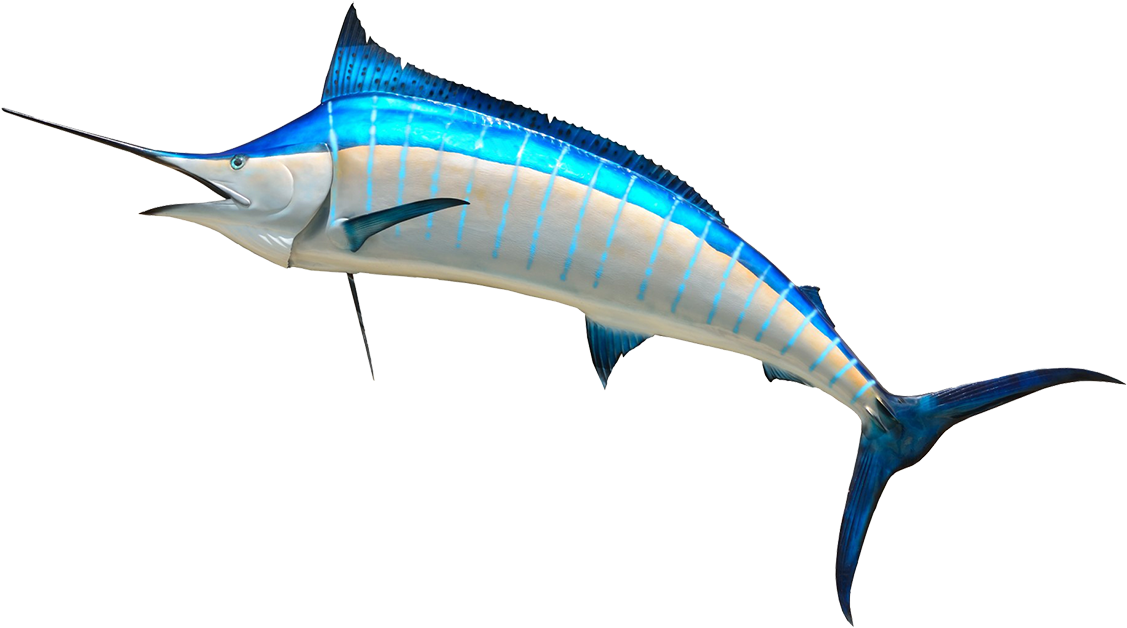
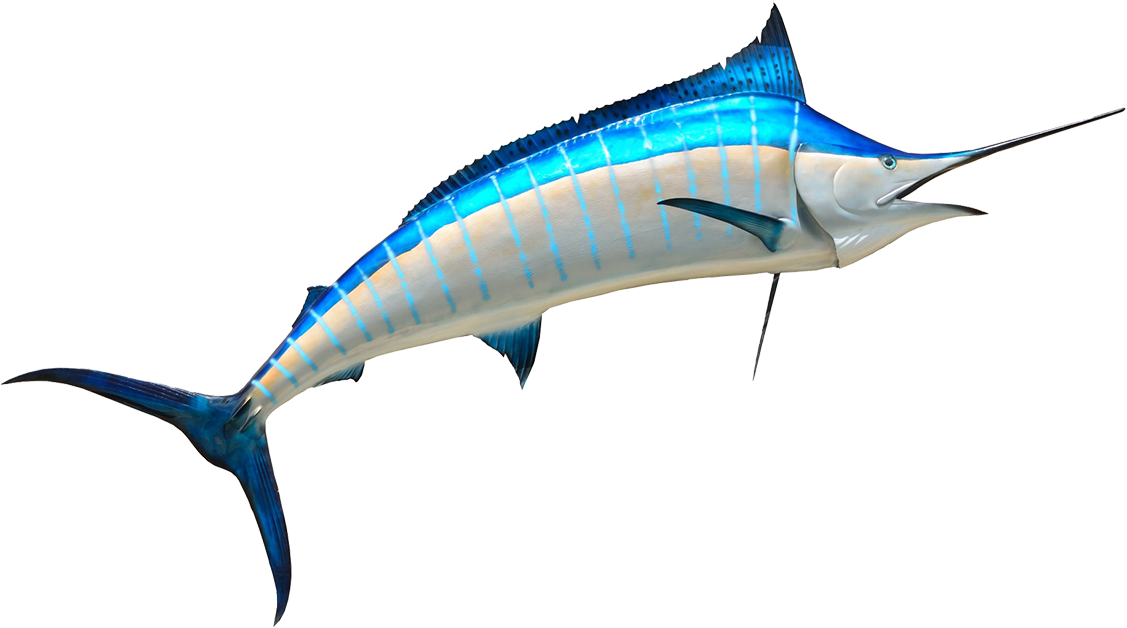
Add background; make fish switch directions

diff --git a/public/scripts/entities/bite_fish.js b/public/scripts/entities/bite_fish.js
@@ -2,6 +2,7 @@ class BiteFish extends Fish {
 
   constructor(options) {
     super(options);
+    this.name = 'bitefish';
     this.imageUri = '/images/bitefish.gif';
     this.maxSwimSpeed = 100;
     this.isTasty = false;
@@ -23,13 +24,8 @@ class BiteFish extends Fish {
   }
 
   isClose = (posX, posY,) => {
-    console.log(Object.keys(this.tank.denizens).length)
     return (
       Math.abs(posX - this.position.x) <= 40 && Math.abs(posY - this.position.y) <= 40
     )
-  }
-
-  onClick(event) {
-    console.log(this)
   }
 }

diff --git a/public/scripts/entities/fish.js b/public/scripts/entities/fish.js
@@ -6,6 +6,7 @@ class Fish extends Denizen {
     this.maxSwimSpeed = 100;
     this.makeNewVelocity();
     this.isTasty = true;
+    this.positionLog = [];
   }
 
   generateSwimVelocity(max, min) {
@@ -21,6 +22,7 @@ class Fish extends Denizen {
 
   updateOneTick() {
     var delta = this.swimVelocity.scale(PHYSICS_TICK_SIZE_S);
+    this.determineFishDirection(delta.x)
     this.position.addMut(delta);
     this.timeUntilSpeedChange -= PHYSICS_TICK_SIZE_S;
     if (this.timeUntilSpeedChange < 0) {

diff --git a/public/scripts/entities/denizen.js b/public/scripts/entities/denizen.js
@@ -52,8 +52,20 @@ class Denizen {
     };
   }
 
+  determineFishDirection(directionDelta) {
+    if (directionDelta < 0){
+      this.imageUri = `/images/${this.name}_rev.${this.getExtension(this.imageUri)}`;
+    } else {
+      this.imageUri = `/images/${this.name}.${this.getExtension(this.imageUri)}`;
+    }
+  }
+
+  getExtension(imageFile){
+    return imageFile.split('.')[1]
+  }
+
   onClick(event) {
-    throw "not implemented";
+    // throw "not implemented";
   }
 
   kill(duration) {

diff --git a/public/index.html b/public/index.html
@@ -16,8 +16,12 @@
     <script src='/scripts/entities/basic_fish.js'></script>
 
     <script src='/scripts/driver.js'></script>
+
+    <link rel="stylesheet" type="text/css" href='./stylesheets/layout.css'></script>
   </head>
   <body>
-    <div id='fishtank' style="position: relative"></div>
+    <div id='fishtank' style="position: relative">
+      <img src='./images/aquarium.jpg' id="tank"></dic>
+    </div>
   </body>
 </html>

diff --git a/public/scripts/entities/seed.js b/public/scripts/entities/seed.js
@@ -31,7 +31,7 @@ class Seed extends Denizen {
       position: this.position,
     });
     if (!individual.isTasty){
-      var audio = new Audio('http://www.wavsource.com/snds_2018-06-03_5106726768923853/movies/misc/jaws_x.wav')
+      var audio = new Audio('../../audio/jaws.wav')
       audio.play();
     }
   }

diff --git a/public/scripts/entities/basic_fish.js b/public/scripts/entities/basic_fish.js
@@ -2,7 +2,8 @@ class BasicFish extends Fish {
 
   constructor(options) {
     super(options)
-    this.imageUri = '/images/fish01.png';
+    this.name = 'basicfish';
+    this.imageUri = '/images/basicfish.png';
     this.isTasty = true;
   }
 

diff --git a/public/scripts/entities/starter.js b/public/scripts/entities/starter.js
@@ -2,7 +2,7 @@ class Starter extends Denizen {
 
   constructor(options) {
     super(options);
-    this.imageUri = '/images/volcano.jpg';
+    this.imageUri = '/images/volcano1.png';
     this.position.y += this.height;
   }
 

diff --git a/public/scripts/entities/go_fish.js b/public/scripts/entities/go_fish.js
@@ -2,6 +2,7 @@ class GoFish extends Fish {
 
   constructor(options) {
     super(options);
+    this.name = 'gofish';
     this.imageUri = '/images/gofish.png';
     this.surgeSecondsLeft = 0;
     this.maxSurge = 1.0;

diff --git a/public/scripts/fishtank.js b/public/scripts/fishtank.js
@@ -114,7 +114,7 @@ class Fishtank {
       minX: - window.innerWidth / 2,
       maxX: window.innerWidth / 2,
       minY: -10,
-      maxY: window.innerHeight - 10,
+      maxY: window.innerHeight - 5,
     };
   }
 

diff --git a/public/scripts/entities/switch_fish.js b/public/scripts/entities/switch_fish.js
@@ -2,6 +2,7 @@ class SwitchFish extends Fish {
 
   constructor(options) {
     super(options)
+    this.name = 'switchfish'
     this.imageUri = '/images/switchfish.png';
     this.isTasty = true;
   }

diff --git a/public/stylesheets/layout.css b/public/stylesheets/layout.css
@@ -1,0 +1,5 @@
+#tank {
+  height: 100%;
+  width: 100%;
+  opacity: 0.75;
+}
